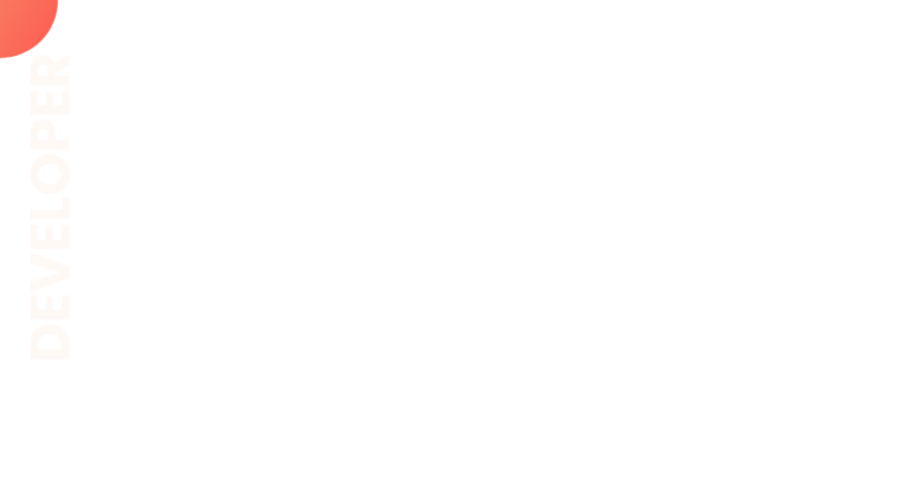
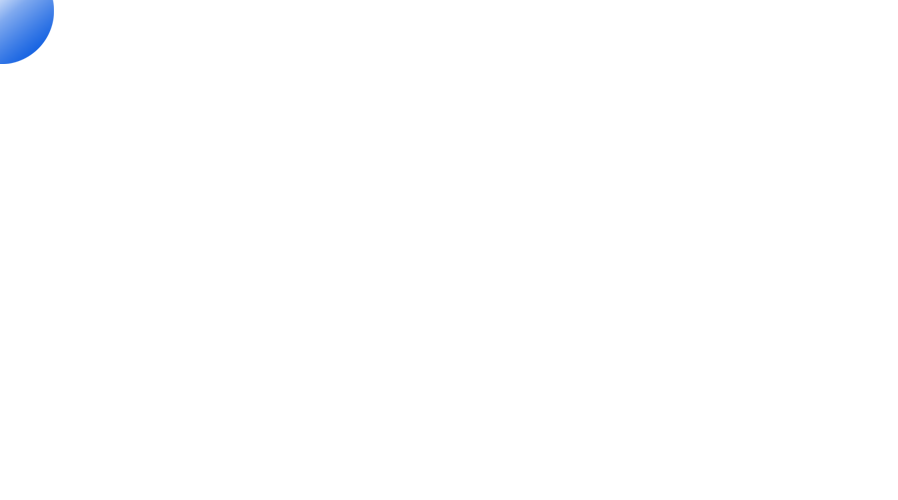
with design

Changed region(s): [[0.0, 0.0, 0.0624, 0.15]]

diff --git a/index.html b/index.html
@@ -14,9 +14,19 @@
    <section class="top-banner">
         <div class="half-width">
             <h1>Welcome To</h1>
-            <h1><span><span class="orange-color"> Eh.Emon </span></span>World!</h1>
-            <h3>Build Climber and Train Stopper</h3>
-            <p>Lorem ipsum dolor sit amet consectetur adipisicing elit. Ducimus iusto eaque adipisci explicabo tempore nisi totam eius, soluta nostrum cum fugit! Quisquam quam voluptatum omnis amet maiores magni praesentium asperiores, dolore temporibus distinctio aspernatur consequatur exercitationem officia doloremque, aperiam non voluptatem, iusto pariatur perspiciatis dolorum quas ullam? Illum earum neque, dicta optio rerum exercitationem reprehenderit itaque repellat! Sit, saepe dicta!</p>
+            <h2 class="my-title"><span class="title-color"> Eh.Emon </span> <span id="AshColor">World!</span> </h2>
+            <h3 id="AshColor">Web Innovation Techniques</h3>
+            <p>Innovation is a creative, dynamic process that can't be fully encapsulated in a series of how-to steps. Instead,
+            innovation is a repertoire of skills in creatively monitoring and understanding user needs and developing web structures
+            to meet those needs.</p>
+            <p>Because the World Wide Web is dynamic, highly enmeshed, competitive, and often a continuously available, global service,
+            developing a web never stops. The information space in which a web operates constantly changes, and, possibly, the
+            domain information of a web changes. The amount that a web changes depends on users' needs, the nature of the domain
+            information, and other factors such as the growth of competitive webs. The key to approaching this need for continuous
+            development is to keep all web-development processes operating. After plans are made for a web, those plans should be
+            reevaluated and adjusted to new conditions. People working on the planning, analysis, design, implementation, and
+            promotion of a web need to communicate with each other, work together to accomplish many tasks, and continuously strive
+            to improve the web for the good of the user.</p>
             <a class="link-button" href="google.com" target="_blank">HIRE ME</a>
         </div>
         <div class="half-width">
@@ -32,8 +42,18 @@
         </div>
         <div class="secound-div">
             <h1>Dream Big</h1>
-            <h3>Become a Web developer</h3>
-            <p>Lorem ipsum dolor sit amet consectetur adipisicing elit. Provident voluptates alias perferendis autem porro rem nemo repellat quae ipsum voluptatem adipisci tempora facere commodi, minima inventore neque? Voluptas, assumenda! Voluptatem totam officia quibusdam quas impedit neque nisi laboriosam. Quae, adipisci ratione. Molestias fuga sapiente dolorem voluptatum laudantium assumenda asperiores beatae!</p>
+            <h3 id="AshColor">Become a Web developer</h3>
+            <p>Web innovators should seek to creatively meet and exceed user expectations and needs by improving the web's value,
+            accuracy, currency, competitiveness, and user interest. Increasing these aspects of a web is a multiprocess effort: the
+            techniques described here blend with and borrow from the other processes of web development.</p>
+
+            <p>Quality is a difficult term to define specifically for a particular domain or product. Total Quality Management, derived
+            from W. Edwards Deming's principles, includes ideas such as continuous, measurable improvement and multidisciplinary
+            responsibility for improving a product. Information quality has much in common with product quality. Like a physical
+            product, information should meet user needs (satisfy the customer). Meeting this principle in specific
+            information-development practices and web-design features, however, is not so straightforward; the type of needs a user
+            has varies greatly from application to application. A general statement for web information quality can be made,
+            however.</p>
             <a class="link-button" href="google.com" target="_blank">DOWNLOAD RESUME</a>
         </div>
    </section>

diff --git a/style.css b/style.css
@@ -4,10 +4,19 @@ body{
 }
 h1{
     font-size: 50px;
+    text-align: center;
+    background: -webkit-linear-gradient(#68c4ee, #2f03f1);
+    -webkit-background-clip: text;-webkit-text-fill-color: transparent;
+}
+#AshColor{
+    color: #444444;
+}
+.my-title{
+    font-size: 35px;
 }
 
-.orange-color{
-    color: orange;
+.title-color{
+    color: #0059ffb7;
 }
 section{
     display: flex;
@@ -18,8 +27,10 @@ section{
     padding-left: 2%;
 }
 .half-width img{
+    border-radius: 50%;
     width: 70%;
     display: block;
+    margin-top: 15px;
     margin-left: auto;
     margin-right: auto;
 }
@@ -27,7 +38,7 @@ section{
     text-decoration: none;
     background-color: orange;
     padding: 10px 40px;
-    background-image: linear-gradient(orange, tomato);
+    background-image: linear-gradient( #81c5f1,#3055cc);
     border-radius: 5px;
     color: aliceblue;
     font-weight: 700;
